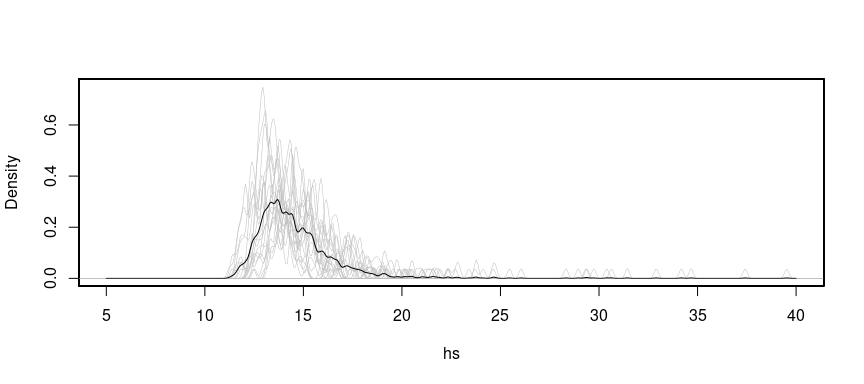
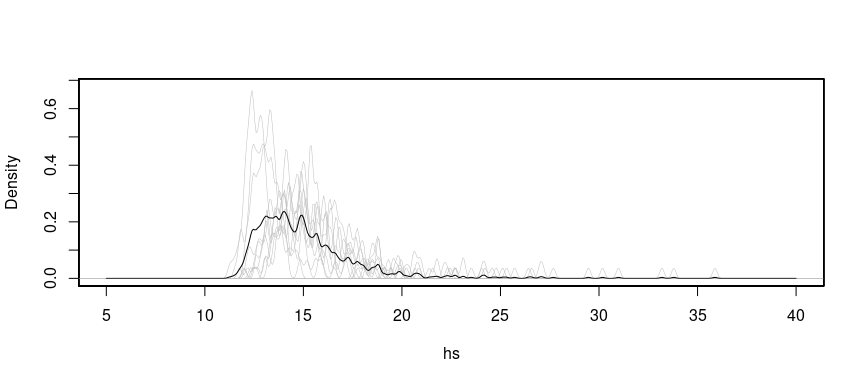
update README

diff --git a/README.md b/README.md
@@ -28,7 +28,7 @@ library(envex)
 ds <- df_ekofisk[, c("time", "hs", "wind_speed_10m", "tp", "tm2", "Pdir", "doy", "dt")]
 
 # reduce data for test from 1976-01-01 to 1986-01-01
-# ds_sub <- ds[1:87673,]  # 10 yrs for quicker testing
+# ds[1:87673,]  # 10 yrs for quicker testing
 
 # choose primary variable
 prime_varstr = 'hs'
@@ -77,7 +77,7 @@ plot(density(ds$hs, bw=.1))
 
 ``` r
 # number of bootstrap/resampling steps
-nbstrp <- 20  # e.g. nbstrp = 20 for testing
+nbstrp <- 10  # e.g. nbstrp = 20 for testing
 
 system.time(res_bstrp <- run_bootstrap_storms_pots(df = df_pick$storms,
                                                    group_col = "storm_idx",
@@ -86,7 +86,7 @@ system.time(res_bstrp <- run_bootstrap_storms_pots(df = df_pick$storms,
 ```
 
     ##    user  system elapsed 
-    ##   6.903   0.012   6.921
+    ##   3.321   0.000   3.321
 
 ``` r
 bstrp_storms_lst <- res_bstrp$boot_samples
@@ -140,6 +140,7 @@ fml_pp <- ~ te(doy, Pdir, bs = c('cc', 'cc'), k = c(6,8))
 fml_gpd <- list(exc ~ te(doy, Pdir, k=c(6,8), bs=c("cc","cc")),
                 ~ te(doy, Pdir, k=c(6,8), bs=c("cc","cc")))
 fml_ald <- hs ~ te(doy, Pdir, bs=c("cc","cc"), k=c(6,8))
+fml_ald_tm2 <- tm2 ~ te(doy, Pdir, bs=c("cc","cc"), k=c(6,8))
 
 model_fml_thr <- NULL
 model_fml_occ <- NULL
@@ -147,201 +148,21 @@ model_fml_gpd <- NULL
 model_fml_thr[['hs']] <- fml_ald
 model_fml_occ[['hs']] <- fml_pp
 model_fml_gpd[['hs']] <- fml_gpd
+model_fml_thr[['tm2']] <- fml_ald_tm2
+model_fml_occ[['tm2']] <- fml_pp
+model_fml_gpd[['tm2']] <- fml_gpd
+
 
 models_margs <- fit_margs_bstrp(bstrp_pots_lst,
                                 model_fml_thr, model_fml_occ, model_fml_gpd,
                                 extr_thr=thr_range, nr_of_years,
                                 thr_str = 'thr',
-                                list_var = prime_varstr,
+                                list_var = c('hs','tm2'),
                                 nbstrp = nbstrp,
                                 nquad = 225,
                                 knots = knots,
                                 node_str_lst = node_str_lst)
 ```
-
-    ## [1] "Considered variables:" "hs"                   
-    ## [1] "number of bootstraps is:" "20"                      
-    ## [1] "bootstrap nr:" "1"            
-    ## [1] "fit threshold model"
-    ## [1] "fit threshold model for" "hs"                     
-    ## [1] "subset to pots above threshold"
-    ## [1] "subset dataset for" "hs"                
-    ## [1] "fit GPD model"
-    ## [1] "fit gpd model for" "hs"               
-    ## [1] "computing weights and creating nodes"
-    ## [1] "fit occ model"
-    ## [1] "fit occurrence model for" "hs"                      
-    ## [1] "bootstrap nr:" "2"            
-    ## [1] "fit threshold model"
-    ## [1] "fit threshold model for" "hs"                     
-    ## [1] "subset to pots above threshold"
-    ## [1] "subset dataset for" "hs"                
-    ## [1] "fit GPD model"
-    ## [1] "fit gpd model for" "hs"               
-    ## [1] "fit occ model"
-    ## [1] "fit occurrence model for" "hs"                      
-    ## [1] "bootstrap nr:" "3"            
-    ## [1] "fit threshold model"
-    ## [1] "fit threshold model for" "hs"                     
-    ## [1] "subset to pots above threshold"
-    ## [1] "subset dataset for" "hs"                
-    ## [1] "fit GPD model"
-    ## [1] "fit gpd model for" "hs"               
-    ## [1] "fit occ model"
-    ## [1] "fit occurrence model for" "hs"                      
-    ## [1] "bootstrap nr:" "4"            
-    ## [1] "fit threshold model"
-    ## [1] "fit threshold model for" "hs"                     
-    ## [1] "subset to pots above threshold"
-    ## [1] "subset dataset for" "hs"                
-    ## [1] "fit GPD model"
-    ## [1] "fit gpd model for" "hs"               
-    ## [1] "fit occ model"
-    ## [1] "fit occurrence model for" "hs"                      
-    ## [1] "bootstrap nr:" "5"            
-    ## [1] "fit threshold model"
-    ## [1] "fit threshold model for" "hs"                     
-    ## [1] "subset to pots above threshold"
-    ## [1] "subset dataset for" "hs"                
-    ## [1] "fit GPD model"
-    ## [1] "fit gpd model for" "hs"               
-    ## [1] "fit occ model"
-    ## [1] "fit occurrence model for" "hs"                      
-    ## [1] "bootstrap nr:" "6"            
-    ## [1] "fit threshold model"
-    ## [1] "fit threshold model for" "hs"                     
-    ## [1] "subset to pots above threshold"
-    ## [1] "subset dataset for" "hs"                
-    ## [1] "fit GPD model"
-    ## [1] "fit gpd model for" "hs"               
-    ## [1] "fit occ model"
-    ## [1] "fit occurrence model for" "hs"                      
-    ## [1] "bootstrap nr:" "7"            
-    ## [1] "fit threshold model"
-    ## [1] "fit threshold model for" "hs"                     
-    ## [1] "subset to pots above threshold"
-    ## [1] "subset dataset for" "hs"                
-    ## [1] "fit GPD model"
-    ## [1] "fit gpd model for" "hs"               
-    ## [1] "fit occ model"
-    ## [1] "fit occurrence model for" "hs"                      
-    ## [1] "bootstrap nr:" "8"            
-    ## [1] "fit threshold model"
-    ## [1] "fit threshold model for" "hs"                     
-    ## [1] "subset to pots above threshold"
-    ## [1] "subset dataset for" "hs"                
-    ## [1] "fit GPD model"
-    ## [1] "fit gpd model for" "hs"               
-    ## [1] "fit occ model"
-    ## [1] "fit occurrence model for" "hs"                      
-    ## [1] "bootstrap nr:" "9"            
-    ## [1] "fit threshold model"
-    ## [1] "fit threshold model for" "hs"                     
-    ## [1] "subset to pots above threshold"
-    ## [1] "subset dataset for" "hs"                
-    ## [1] "fit GPD model"
-    ## [1] "fit gpd model for" "hs"               
-    ## [1] "fit occ model"
-    ## [1] "fit occurrence model for" "hs"                      
-    ## [1] "bootstrap nr:" "10"           
-    ## [1] "fit threshold model"
-    ## [1] "fit threshold model for" "hs"                     
-    ## [1] "subset to pots above threshold"
-    ## [1] "subset dataset for" "hs"                
-    ## [1] "fit GPD model"
-    ## [1] "fit gpd model for" "hs"               
-    ## [1] "fit occ model"
-    ## [1] "fit occurrence model for" "hs"                      
-    ## [1] "bootstrap nr:" "11"           
-    ## [1] "fit threshold model"
-    ## [1] "fit threshold model for" "hs"                     
-    ## [1] "subset to pots above threshold"
-    ## [1] "subset dataset for" "hs"                
-    ## [1] "fit GPD model"
-    ## [1] "fit gpd model for" "hs"               
-    ## [1] "fit occ model"
-    ## [1] "fit occurrence model for" "hs"                      
-    ## [1] "bootstrap nr:" "12"           
-    ## [1] "fit threshold model"
-    ## [1] "fit threshold model for" "hs"                     
-    ## [1] "subset to pots above threshold"
-    ## [1] "subset dataset for" "hs"                
-    ## [1] "fit GPD model"
-    ## [1] "fit gpd model for" "hs"               
-    ## [1] "fit occ model"
-    ## [1] "fit occurrence model for" "hs"                      
-    ## [1] "bootstrap nr:" "13"           
-    ## [1] "fit threshold model"
-    ## [1] "fit threshold model for" "hs"                     
-    ## [1] "subset to pots above threshold"
-    ## [1] "subset dataset for" "hs"                
-    ## [1] "fit GPD model"
-    ## [1] "fit gpd model for" "hs"               
-    ## [1] "fit occ model"
-    ## [1] "fit occurrence model for" "hs"                      
-    ## [1] "bootstrap nr:" "14"           
-    ## [1] "fit threshold model"
-    ## [1] "fit threshold model for" "hs"                     
-    ## [1] "subset to pots above threshold"
-    ## [1] "subset dataset for" "hs"                
-    ## [1] "fit GPD model"
-    ## [1] "fit gpd model for" "hs"               
-    ## [1] "fit occ model"
-    ## [1] "fit occurrence model for" "hs"                      
-    ## [1] "bootstrap nr:" "15"           
-    ## [1] "fit threshold model"
-    ## [1] "fit threshold model for" "hs"                     
-    ## [1] "subset to pots above threshold"
-    ## [1] "subset dataset for" "hs"                
-    ## [1] "fit GPD model"
-    ## [1] "fit gpd model for" "hs"               
-    ## [1] "fit occ model"
-    ## [1] "fit occurrence model for" "hs"                      
-    ## [1] "bootstrap nr:" "16"           
-    ## [1] "fit threshold model"
-    ## [1] "fit threshold model for" "hs"                     
-    ## [1] "subset to pots above threshold"
-    ## [1] "subset dataset for" "hs"                
-    ## [1] "fit GPD model"
-    ## [1] "fit gpd model for" "hs"               
-    ## [1] "fit occ model"
-    ## [1] "fit occurrence model for" "hs"                      
-    ## [1] "bootstrap nr:" "17"           
-    ## [1] "fit threshold model"
-    ## [1] "fit threshold model for" "hs"                     
-    ## [1] "subset to pots above threshold"
-    ## [1] "subset dataset for" "hs"                
-    ## [1] "fit GPD model"
-    ## [1] "fit gpd model for" "hs"               
-    ## [1] "fit occ model"
-    ## [1] "fit occurrence model for" "hs"                      
-    ## [1] "bootstrap nr:" "18"           
-    ## [1] "fit threshold model"
-    ## [1] "fit threshold model for" "hs"                     
-    ## [1] "subset to pots above threshold"
-    ## [1] "subset dataset for" "hs"                
-    ## [1] "fit GPD model"
-    ## [1] "fit gpd model for" "hs"               
-    ## [1] "fit occ model"
-    ## [1] "fit occurrence model for" "hs"                      
-    ## [1] "bootstrap nr:" "19"           
-    ## [1] "fit threshold model"
-    ## [1] "fit threshold model for" "hs"                     
-    ## [1] "subset to pots above threshold"
-    ## [1] "subset dataset for" "hs"                
-    ## [1] "fit GPD model"
-    ## [1] "fit gpd model for" "hs"               
-    ## [1] "fit occ model"
-    ## [1] "fit occurrence model for" "hs"                      
-    ## [1] "bootstrap nr:" "20"           
-    ## [1] "fit threshold model"
-    ## [1] "fit threshold model for" "hs"                     
-    ## [1] "subset to pots above threshold"
-    ## [1] "subset dataset for" "hs"                
-    ## [1] "fit GPD model"
-    ## [1] "fit gpd model for" "hs"               
-    ## [1] "fit occ model"
-    ## [1] "fit occurrence model for" "hs"
 
 ## Simulate 100yr maxima
 
@@ -349,7 +170,8 @@ models_margs <- fit_margs_bstrp(bstrp_pots_lst,
 RP <- 100
 nmc <- 100
 preds_margs_lst <- predict_margs(models_margs, nr_yrs_subdata, RP=RP,
-                                 nmc = nmc, var_lst=c('hs'), nbstrp = nbstrp,
+                                 nmc = nmc, var_lst = c('hs','tm2'),
+                 nbstrp = nbstrp,
                                  covarstr_lst = c('Pdir','doy'),
                                  grid_interval = list('Pdir'=1, 'doy'=1))
 ```
@@ -364,7 +186,7 @@ dhs <- diagnose_margs_preds_density(preds_margs_lst, 'hs', bw=.1, xlim=c(5,40))
 
     ## [1] "summary maxes:"
     ##    Min. 1st Qu.  Median    Mean 3rd Qu.    Max. 
-    ##   11.24   13.28   14.15   14.68   15.38   71.42
+    ##   11.25   13.34   14.52   15.12   16.04   35.88
 
 ``` r
 abline(v = max(df_pick$pots$hs), col = "gray", lwd = 2)
@@ -379,6 +201,54 @@ abline(v = rv100_q4, col = "paleturquoise2", lwd = 2)
 ```
 
 ![](README_files/figure-gfm/unnamed-chunk-9-2.png)<!-- -->
+
+## Compute joint models testing various thresholds
+
+``` r
+# check various thresholds ###
+maxd_thr <- seq(.5,.98,.01)
+models_maxds_thr <- NULL
+for (t in seq_along(maxd_thr)){
+ print(c('## t:', maxd_thr[t]))
+ models_maxds_tmp <- fit_maxds_bstrp(bstrp_pots_lst,
+                                     models_margs,
+                                     maxd_thr[t],
+                                     nbstrp=nbstrp)
+ models_maxds_thr[[t]] <- models_maxds_tmp
+}
+```
+
+``` r
+# diagnose effect of threshold choice
+diagnose_maxds(models_maxds_thr, maxd_thr, 'hs', 'tm2', ylim=c(-1.5, 1.5))
+```
+
+![](README_files/figure-gfm/unnamed-chunk-11-1.png)<!-- -->
+
+## Choose threshold range from test and sample across
+
+``` r
+maxd_thr_range <- c(.6,.8)
+models_maxds <- fit_maxds_bstrp(bstrp_pots_lst,
+                                models_margs,
+                                maxd_thr,
+                                nbstrp = nbstrp)
+```
+
+# Diagnose by comparing data against nsim HT2004 simulations
+
+``` r
+nsim <- 100
+diagnose_maxds_fitted(models_maxds[[2]], "tm2", "hs", nsim)
+```
+
+![](README_files/figure-gfm/unnamed-chunk-13-1.png)<!-- -->![](README_files/figure-gfm/unnamed-chunk-13-2.png)<!-- -->![](README_files/figure-gfm/unnamed-chunk-13-3.png)<!-- -->![](README_files/figure-gfm/unnamed-chunk-13-4.png)<!-- -->
+
+``` r
+diagnose_maxds_fitted(models_maxds[[2]], "hs", "tm2", nsim)
+```
+
+![](README_files/figure-gfm/unnamed-chunk-14-1.png)<!-- -->![](README_files/figure-gfm/unnamed-chunk-14-2.png)<!-- -->![](README_files/figure-gfm/unnamed-chunk-14-3.png)<!-- -->![](README_files/figure-gfm/unnamed-chunk-14-4.png)<!-- -->
 
 ## Notes
 
